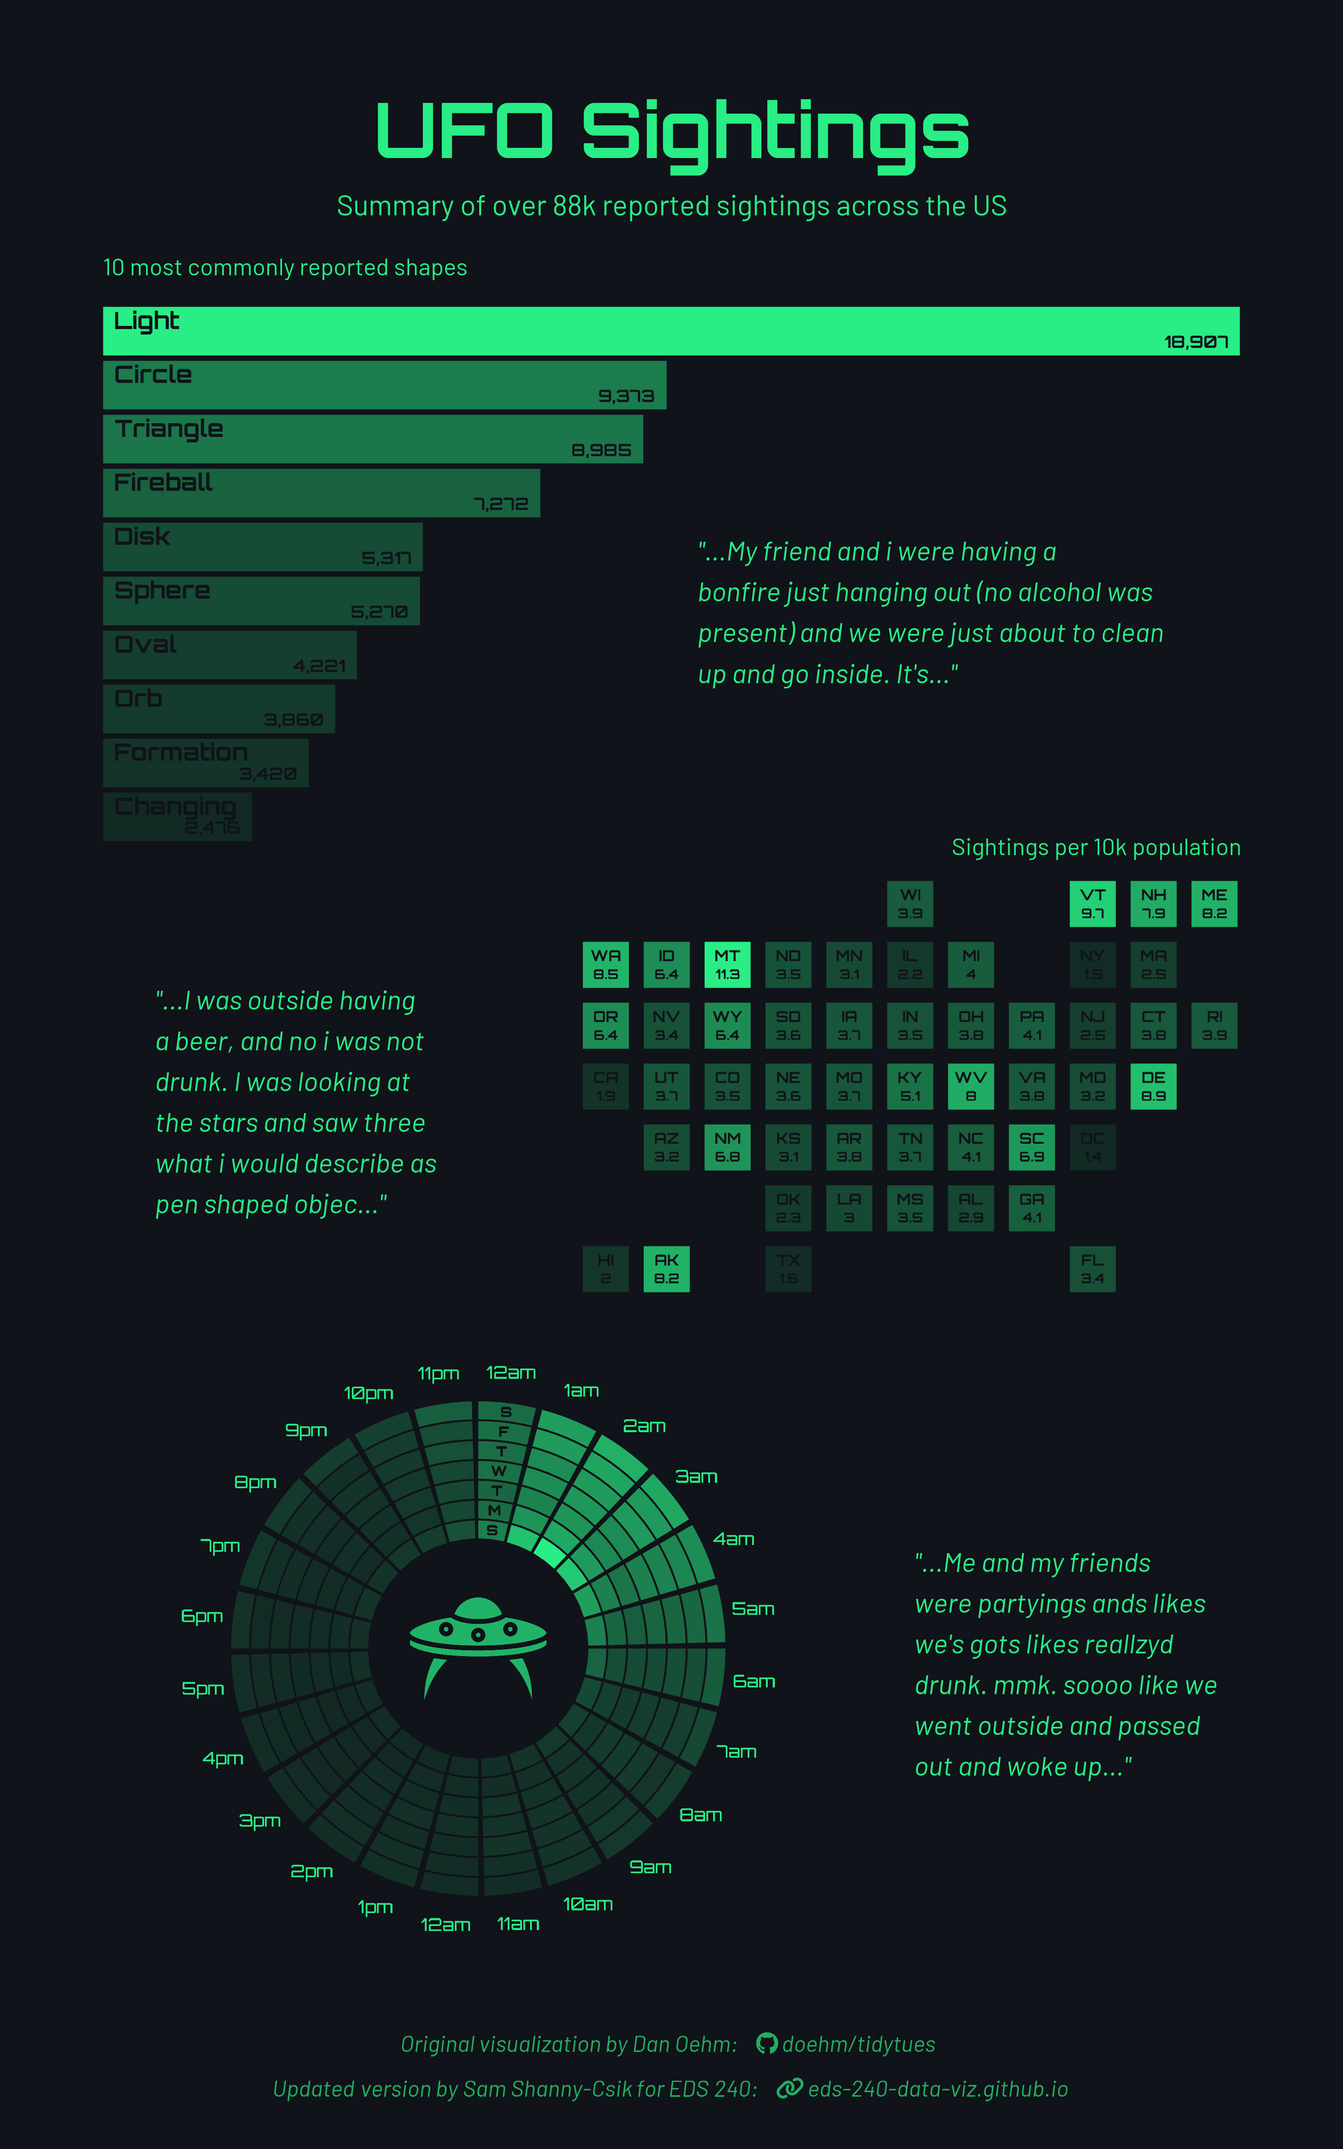
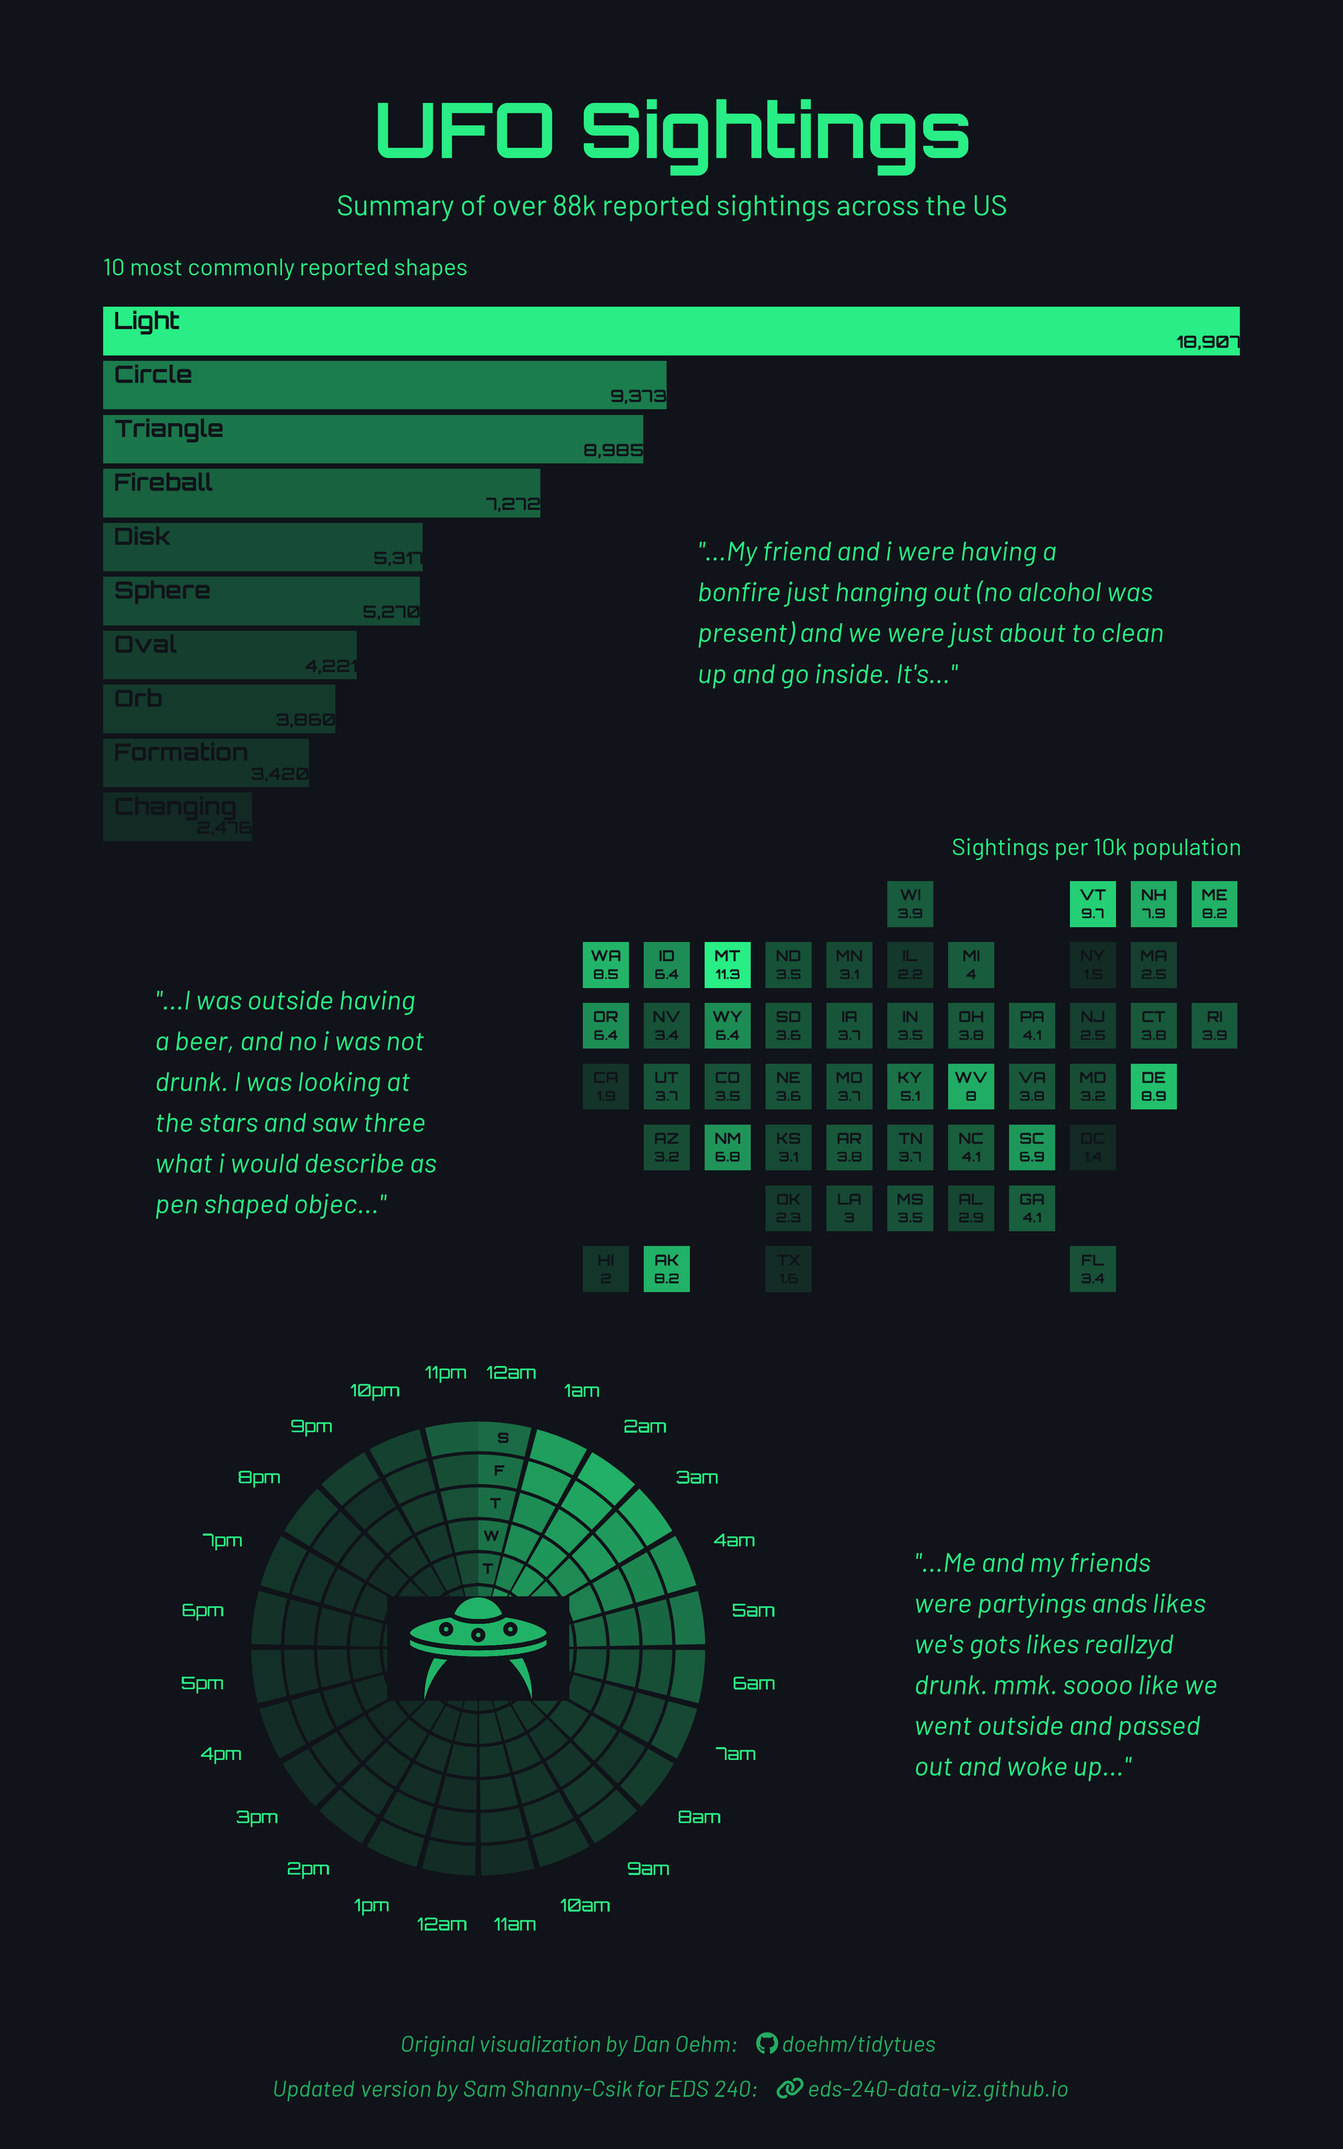
Complete through question 19

diff --git a/HW1.html b/HW1.html
@@ -195,7 +195,7 @@ pre > code.sourceCode > span > a:first-child::before { text-decoration: underlin
 </ul></li>
 <li><p><strong>In your own words, explain what the function, <code>font_add_google()</code>, does. What’s the difference between the two arguments, <code>name</code> and <code>family</code>?</strong></p>
 <ul>
-<li>The function <code>font_add_google()</code> imports specific fonts from the Google Fonts repository into <code>sysfonts</code>, which provides access to installed fonts. The argument <code>name</code> specifies the text that will be searched in the repository to access the desired font, while “family” can be any string (doesn’t have to match <code>name</code>) that will be used to specify the font in R plotting.</li>
+<li>The function <code>font_add_google()</code> imports specific fonts from the Google Fonts repository into <code>sysfonts</code>, which provides access to installed fonts. The argument <code>name</code> specifies the text that will be searched in the repository to access the desired font, while “family” can be any string (doesn’t have to match <code>name</code>) that will be used to specify the font later on in R plotting.</li>
 </ul></li>
 </ol>
 </section>
@@ -216,7 +216,7 @@ pre > code.sourceCode > span > a:first-child::before { text-decoration: underlin
 <ol start="3" type="1">
 <li><p><strong>Describe what this data frame contains.</strong></p>
 <ul>
-<li>Answer here</li>
+<li>This data frame contains two columns: one with all of the U.S. states, identified by their abbreviations, and the other with the corresponding state population.</li>
 </ul></li>
 </ol>
 </section>
@@ -239,11 +239,11 @@ pre > code.sourceCode > span > a:first-child::before { text-decoration: underlin
 <ol start="4" type="1">
 <li><p><strong>Describe what this data frame contains.</strong></p>
 <ul>
-<li>Answer here</li>
+<li>This data contains 5 columns. Like <code>df_pop</code>, <code>df_us</code> also has a column of state abbreviations and one containing state populations. In addition to this, this dataframe also has the number of UFO observations in each state as its third column. Using state populations and UFO sightings, the number of UFO observations per 10,000 people (<code>num_obs_per10k</code>) was calculated and saved as its own column. Finally, <code>opacity_val</code>, the fifth column, contains the fraction that each <code>num_obs_per10k</code> value is of the maximum <code>num_obs_per10</code> value.</li>
 </ul></li>
 <li><p><strong>What does <code>opacity_val</code> represent, and why is it calculated?</strong></p>
 <ul>
-<li>Answer here</li>
+<li><code>opacity_val</code> represents the proportion that <code>num_obs_per10k</code> is of its maximum value. This was calculated in order to have an opacity value to assign to the <code>alpha=</code> argument in plotting. By doing it in this way, it ensures that the higher <code>num_obs_per10k</code> values would appear darker and lower ones lighter. This makes intuitive sense, as we would expense something with a larger value to be presented as more concentrated.</li>
 </ul></li>
 </ol>
 </section>
@@ -266,15 +266,15 @@ pre > code.sourceCode > span > a:first-child::before { text-decoration: underlin
 <ol start="6" type="1">
 <li><p><strong>Describe what this data frame contains.</strong></p>
 <ul>
-<li>Answer here</li>
+<li>This data frame contains the top 10 most common UFO shapes sighted, with a column for total sightings (in descending order) and one with opacity value. <code>opacity_val</code> was assigned to UFO shape using the rescale function from the scales package, which applies a proportional value, from 0.3 to 1, to each number of sightings based on its position between the maximum and minimum. In total, there are three columns.</li>
 </ul></li>
 <li><p><strong>What does <code>fct_reorder</code> do when it is applied to the <code>shape</code> variable? What would have happened if this step was not performed?</strong></p>
 <ul>
-<li>Answer here</li>
+<li>When applied to the <code>shape</code> variable, the <code>fct_reorder</code> function specifies that <code>shape</code> will be ordered by the <code>total_sightings</code> variable moving forward. Although the data frame was already arranged by <code>total_sightings</code> in descending order, this step ensures that during plotting the factors are actually plotted in the order we want them, instead of alphabetically (the default).</li>
 </ul></li>
 <li><p><strong>What is the purpose of rescaling <code>opacity_val</code>? And why rescale from 0.3 to 1?</strong></p>
 <ul>
-<li>Answer here</li>
+<li>Rescaling <code>opacity_val</code> translates the <code>total_sightings</code> column into values that the alpha argument (which comes up in plotting) comprehends. Rescaling from 0.3 to 1 is important, as opposed to 0 to 1, because otherwise the shape with the lowest value would have no opacity at all (alpha = 0). Specifying 0.3 to 1 ensures that the lighest value is still dark enough to discern.</li>
 </ul></li>
 </ol>
 </section>
@@ -301,11 +301,11 @@ pre > code.sourceCode > span > a:first-child::before { text-decoration: underlin
 <ol start="9" type="1">
 <li><p><strong>Describe what this data frame contains.</strong></p>
 <ul>
-<li>Answer here</li>
+<li>This data frame has six columns. The first two are the days of the week, categorized both as an integer (<code>day</code>, where 1 represents Sunday) and character string abbreviation (<code>wday</code>, where Sun represents Sunday). There are also two columns that contain each hour of the day. Similarly to the days of the weeks column, one (<code>hour</code>) is an integer of the hour, and the other (<code>hour_lab</code>) is a character string with a number and “am” or “pm”. Finally, each hour of each day also has a corresponding value in the <code>total_daily_obs</code> column.</li>
 </ul></li>
 <li><p><strong>What is the purpose of the last line inside the <code>case_when()</code> statement (<code>TRUE ~ paste0(hour - 12, "pm")</code>)?</strong></p>
 <ul>
-<li>Answer here</li>
+<li>The last line in the <code>case_when()</code> statement defines the default value when none of the previously defined conditions are meant. In this case, it tells the <code>case_when()</code> function that if the hour is not 0, less than 12, or equal to 12, then to subtract 12 from the value and add “pm” to the label.</li>
 </ul></li>
 </ol>
 </section>
@@ -327,7 +327,7 @@ pre > code.sourceCode > span > a:first-child::before { text-decoration: underlin
 <ol start="11" type="1">
 <li><p><strong>In your own words, what is the difference between <code>paste0()</code> and <code>glue()</code>? Why did the author use <code>paste0</code> to construct <code>quotes</code> and <code>glue</code> to construct the other text elements?</strong></p>
 <ul>
-<li>Answer here</li>
+<li><code>paste0</code> interprets R code whereas <code>glue</code> can interprets HTML, for easier customization. <code>paste0</code> was used to construct <code>quotes</code> because it was extracting data from a data frame within R, perhaps making using R syntax (such as for selecting out of said data frame) necessary. The other elements were constructed with <code>glue</code> because they had specifications like font, background color, and spacing that needed to be written in HTML format.</li>
 </ul></li>
 </ol>
 </section>
@@ -368,7 +368,7 @@ pre > code.sourceCode > span > a:first-child::before { text-decoration: underlin
 <ol start="12" type="1">
 <li><p><strong>Explain the values provided to the <code>x</code> aesthetic for both text geoms (<code>shape</code> &amp; <code>total_sightings</code>).</strong></p>
 <ul>
-<li>Answer here</li>
+<li>The values provided to the <code>x</code> aesthetic represent the x coordinates at which the <code>geom_text()</code> objects are to be located. In the first text geom (<code>shape</code>) the labels are specified to exist at the x-coordinate 200, whereas in the second (<code>total_sightings</code>), the label is to be 200 x-coordinates to the left of the end of each <code>total_sightings</code> columns.</li>
 </ul></li>
 </ol>
 </section>
@@ -406,7 +406,7 @@ pre > code.sourceCode > span > a:first-child::before { text-decoration: underlin
 <ol start="13" type="1">
 <li><p><strong>Consider the order of <code>geom_*()</code> layers in the the above plot (<code>plot_us</code>). Why did the author order the layers in this way?</strong></p>
 <ul>
-<li>Answer here</li>
+<li>In this plot, <code>geom_rect</code> is first because it acts as the background for the <code>geom_text</code> labels. By putting it first, the author ensures that it gets plotted first, and therefore the labels get plotted on top of it.</li>
 </ul></li>
 </ol>
 </section>
@@ -439,11 +439,11 @@ pre > code.sourceCode > span > a:first-child::before { text-decoration: underlin
 <ol start="14" type="1">
 <li><p><strong>This plot includes one-letter labels for each day of the week. How is ths accomplished when week days are written using their three-letter abbreviations (e.g.&nbsp;<code>Mon</code>, <code>Tue</code>) in the <code>df_day_hour</code> data frame?</strong></p>
 <ul>
-<li>Answer here</li>
+<li>This is accomplished through the function <code>str_sub</code>, which takes the original <code>wday</code> string, and (according to the arguments in this plot), keeps only the first character in the string. This is done by assigning both the start and end of the character range to 1.</li>
 </ul></li>
 <li><p><strong>What role do the <code>ylim()</code> and <code>xlim()</code> functions play in shaping a ggplot, and how do they change the visual layout of this particular plot? To better understand their effect, try rerunning the code with each of these lines commented out and observe how the plot’s spacing and composition change.</strong></p>
 <ul>
-<li>Answer here</li>
+<li>Generally, <code>ylim()</code> and <code>xlim()</code> change the y- and x-axis limits of a ggplot object. In this case, a y-axis from -5 to 9 creates a blank circle/hole in the middle of the plot, and “squishes” each data box to be a bit narrower than before. The x-axis limit of 23.55 puts a gap between 11pm and 12am, in order to match the gaps in the rest of the plot.</li>
 </ul></li>
 </ol>
 </section>
@@ -502,7 +502,7 @@ pre > code.sourceCode > span > a:first-child::before { text-decoration: underlin
 <ol start="16" type="1">
 <li><p><strong>Why do you think the author chose to convert these text elements (and also in <code>plot_ufo</code>, below!) into ggplot objects (you may consider returning to this question after you’ve worked your way through all of the code)?</strong></p>
 <ul>
-<li>Answer here</li>
+<li>By having all the plot components as the same type of object, it is easier to combine them using the same commands.</li>
 </ul></li>
 </ol>
 </section>
@@ -548,12 +548,24 @@ pre > code.sourceCode > span > a:first-child::before { text-decoration: underlin
 <span id="cb12-25"><a href="#cb12-25"></a>                                            <span class="at">hjust =</span> <span class="fl">0.5</span>,</span>
 <span id="cb12-26"><a href="#cb12-26"></a>                                            <span class="at">margin =</span> <span class="fu">margin</span>(<span class="at">t =</span> <span class="dv">20</span>)),</span>
 <span id="cb12-27"><a href="#cb12-27"></a>    <span class="at">plot.margin =</span> <span class="fu">margin</span>(<span class="at">b =</span> <span class="dv">20</span>, <span class="at">t =</span> <span class="dv">50</span>, <span class="at">r =</span> <span class="dv">50</span>, <span class="at">l =</span> <span class="dv">50</span>)</span>
-<span id="cb12-28"><a href="#cb12-28"></a>  )</span></code></pre></div><button title="Copy to Clipboard" class="code-copy-button"><i class="bi"></i></button></div>
+<span id="cb12-28"><a href="#cb12-28"></a>  )  <span class="sc">+</span> <span class="fu">inset_element</span>(plot_shape, <span class="at">left =</span> <span class="dv">0</span>, <span class="at">right =</span> <span class="dv">1</span>, <span class="at">top =</span> <span class="dv">1</span>, <span class="at">bottom =</span> <span class="fl">0.66</span>) <span class="sc">+</span></span>
+<span id="cb12-29"><a href="#cb12-29"></a>  <span class="fu">inset_element</span>(plot_us, <span class="at">left =</span> <span class="fl">0.42</span>, <span class="at">right =</span> <span class="dv">1</span>, <span class="at">top =</span> <span class="fl">0.74</span>, <span class="at">bottom =</span> <span class="fl">0.33</span>) <span class="sc">+</span></span>
+<span id="cb12-30"><a href="#cb12-30"></a>  <span class="fu">inset_element</span>(plot_day, <span class="at">left =</span> <span class="dv">0</span>, <span class="at">right =</span> <span class="fl">0.66</span>, <span class="at">top =</span> <span class="fl">0.4</span>, <span class="at">bottom =</span> <span class="dv">0</span>) <span class="sc">+</span></span>
+<span id="cb12-31"><a href="#cb12-31"></a>  <span class="fu">inset_element</span>(quote1, <span class="at">left =</span> <span class="fl">0.5</span>, <span class="at">right =</span> <span class="dv">1</span>, <span class="at">top =</span> <span class="fl">0.8</span>, <span class="at">bottom =</span> <span class="fl">0.72</span>) <span class="sc">+</span></span>
+<span id="cb12-32"><a href="#cb12-32"></a>  <span class="fu">inset_element</span>(quote2, <span class="at">left =</span> <span class="dv">0</span>, <span class="at">right =</span> <span class="dv">1</span>, <span class="at">top =</span> <span class="fl">0.52</span>, <span class="at">bottom =</span> <span class="fl">0.4</span>) <span class="sc">+</span></span>
+<span id="cb12-33"><a href="#cb12-33"></a>  <span class="fu">inset_element</span>(quote3, <span class="at">left =</span> <span class="fl">0.7</span>, <span class="at">right =</span> <span class="dv">1</span>, <span class="at">top =</span> <span class="fl">0.2</span>, <span class="at">bottom =</span> <span class="dv">0</span>) <span class="sc">+</span></span>
+<span id="cb12-34"><a href="#cb12-34"></a>  <span class="fu">inset_element</span>(plot_ufo, <span class="at">left =</span> <span class="fl">0.25</span>, <span class="at">right =</span> <span class="fl">0.41</span>, <span class="at">top =</span> <span class="fl">0.23</span>, <span class="at">bottom =</span> <span class="fl">0.17</span>) <span class="sc">+</span> </span>
+<span id="cb12-35"><a href="#cb12-35"></a>  <span class="fu">plot_annotation</span>(</span>
+<span id="cb12-36"><a href="#cb12-36"></a>    <span class="at">theme =</span> <span class="fu">theme</span>(</span>
+<span id="cb12-37"><a href="#cb12-37"></a>      <span class="at">plot.background =</span> <span class="fu">element_rect</span>(<span class="at">fill =</span> bg,</span>
+<span id="cb12-38"><a href="#cb12-38"></a>                                     <span class="at">color =</span> bg)</span>
+<span id="cb12-39"><a href="#cb12-39"></a>    )</span>
+<span id="cb12-40"><a href="#cb12-40"></a>  ) </span></code></pre></div><button title="Copy to Clipboard" class="code-copy-button"><i class="bi"></i></button></div>
 </div>
 <ol start="17" type="1">
 <li><p><strong>Why does the author render <code>plot.caption</code> using <code>ggtext::element_markdown()</code>, rather than <code>element_text()</code> (like he does for rendering <code>plot.title</code> and <code>text</code>)?</strong></p>
 <ul>
-<li>Answer here</li>
+<li>The author uses <code>ggtext::element_markdown()</code> instead of <code>element_text()</code> because the caption was defined using the <code>glue()</code> function, and styling is specified using HTML. <code>ggtext::element_markdown()</code> can interpret HTML, whereas <code>element_text()</code> cannot. One way that this is important in this case is to preserve the spacing of the caption.</li>
 </ul></li>
 </ol>
 </section>
@@ -584,11 +596,11 @@ pre > code.sourceCode > span > a:first-child::before { text-decoration: underlin
 <ol start="18" type="1">
 <li><p><strong>Explain how <code>plot_final</code> is assembled. What do you think is the most challenging aspect of arranging all components into a single plot?</strong></p>
 <ul>
-<li>Answer here</li>
+<li>Each element of the final plot – the three plots and three quotes – were all manually inset onto the <code>plot_base</code> (that has the title, subtitle, and caption) using the locations of the outer bonds (left, right, top, and bottom). The UFO image in the middle of <code>plot_day</code> is also manually inset. The function <code>inset_element()</code> comes from the <code>patchwork</code> package. The most challenging aspect of arranging all of the components must be figuring out the proper placement using the argument units. I imagine that it would take a lot of fiddling and re-running the code to get all of the components to be situated exactly where you want them.</li>
 </ul></li>
 <li><p><strong>Can you think of one reason the author may have chosen to separate the construction of <code>plot_base</code> and <code>plot_final</code>?</strong></p>
 <ul>
-<li>Answer here</li>
+<li><code>plot_base</code> was created using the <code>ggplot</code> package, whereas the final assembly was done using <code>patchwork</code>. Although the two packages often work hand-in-hand together, I imagine that adding one on top of the other may</li>
 </ul></li>
 </ol>
 </section>
